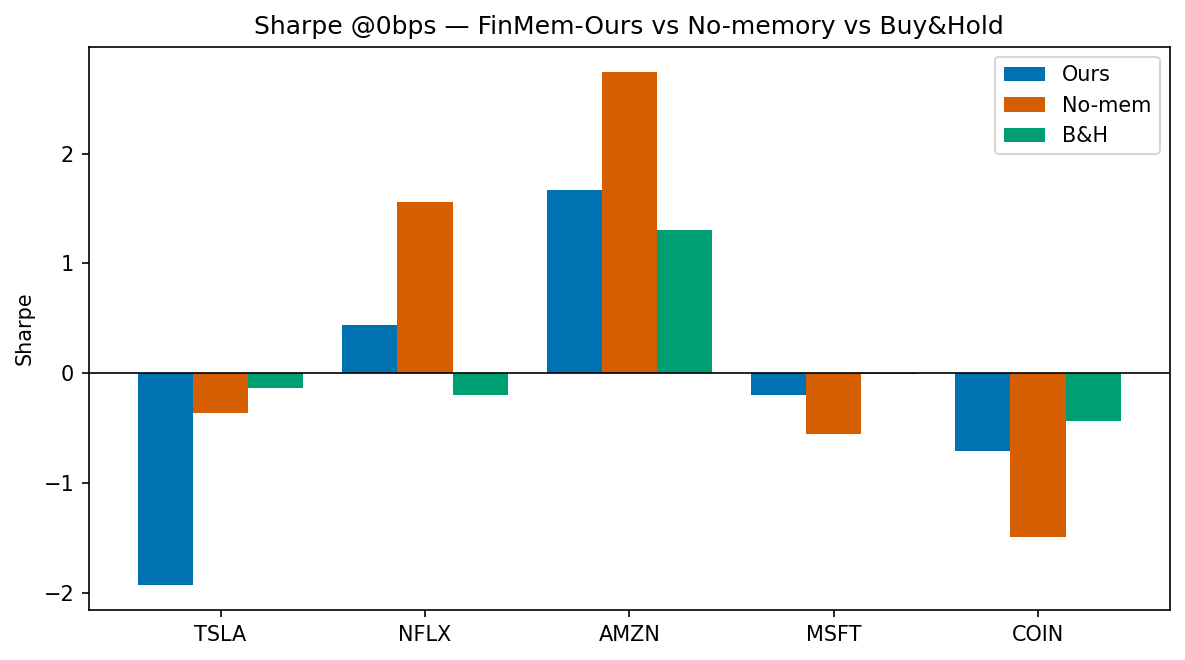
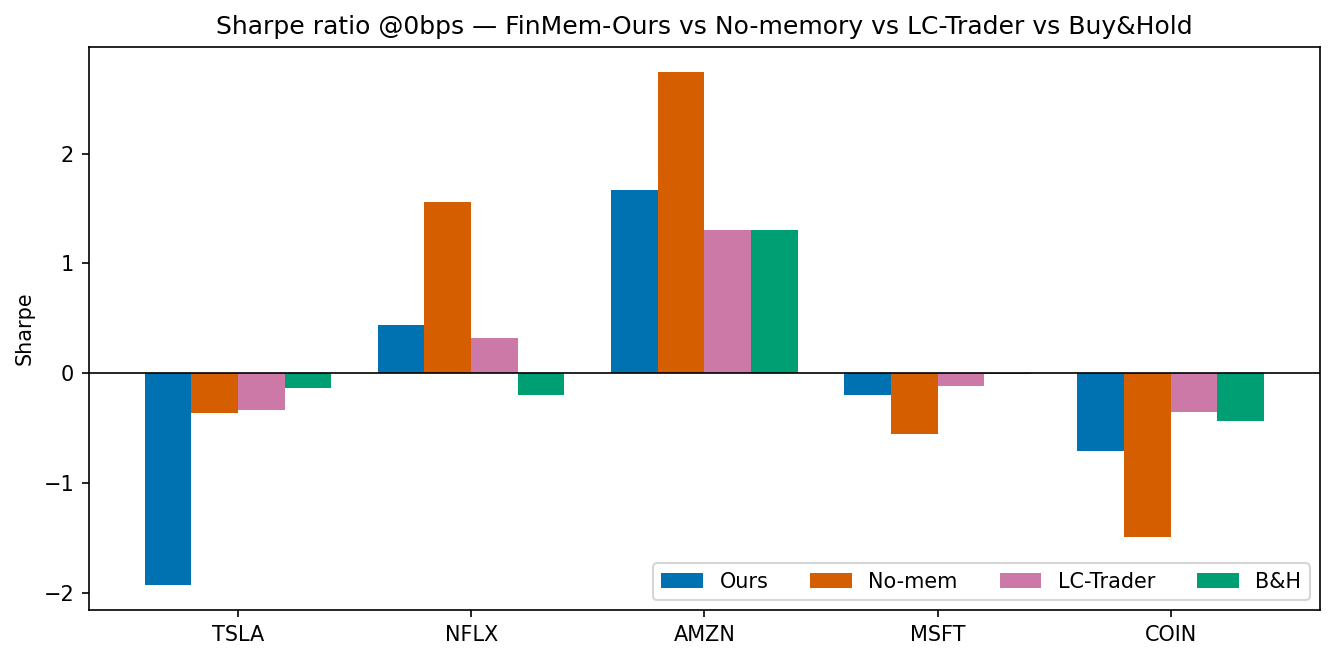
Extra deck figures: Sharpe bars w/ LC-Trader (4 series) + FinMem-Ours vs B&H per-ticker cum-return chart

diff --git a/data-pipeline/21_extra_figs.py b/data-pipeline/21_extra_figs.py
@@ -1,0 +1,72 @@
+"""Stage-12 extra figures (user request):
+1. bars_sharpe.png — Sharpe bars with the 4th LC-Trader series.
+2. finmem_ours_vs_bh_by_ticker.png — FinMem-Ours per-ticker cumulative-return lines
+   (solid) with each ticker's Buy & Hold overlaid (dashed, same colour).
+Canonical series via 16. No API.
+"""
+import os
+import sys
+import importlib.util
+
+import numpy as np
+import pandas as pd
+import matplotlib
+matplotlib.use("Agg")
+import matplotlib.pyplot as plt
+
+sys.path.insert(0, os.getcwd())
+spec = importlib.util.spec_from_file_location("c16", os.path.join("data-pipeline", "16_canonical_metrics.py"))
+C = importlib.util.module_from_spec(spec); spec.loader.exec_module(C)
+
+FIG = "data/09_results/figures"
+TICKERS = ["TSLA", "NFLX", "AMZN", "MSFT", "COIN"]
+TCOL = {"TSLA": "#E15759", "NFLX": "#1B2A6B", "AMZN": "#17BECF", "MSFT": "#2E78D2", "COIN": "#E8A317"}
+SCOL = {"Ours": "#0072B2", "No-mem": "#D55E00", "LC-Trader": "#CC79A7", "B&H": "#009E73"}
+plt.rcParams.update({"figure.dpi": 150, "savefig.dpi": 150, "figure.facecolor": "white",
+                     "axes.facecolor": "white", "font.size": 10})
+
+df = pd.read_csv("data/09_results/metrics_canonical.csv")
+
+# ---------- 1. Sharpe bars, 4 series ----------
+fig, ax = plt.subplots(figsize=(9, 4.5))
+x = np.arange(len(TICKERS)); w = 0.2
+for i, (strat, lab) in enumerate([("FinMem-Ours", "Ours"), ("No-memory", "No-mem"),
+                                  ("LC-Trader", "LC-Trader"), ("BuyHold", "B&H")]):
+    key = {"Ours": "Ours", "No-mem": "No-mem", "LC-Trader": "LC-Trader", "B&H": "B&H"}[lab]
+    vals = [df[(df.ticker == t) & (df.strategy == strat)]["sharpe_0"].values for t in TICKERS]
+    vals = [v[0] if len(v) else np.nan for v in vals]
+    ax.bar(x + (i - 1.5) * w, vals, w, label=lab, color=SCOL[key])
+ax.set_xticks(x); ax.set_xticklabels(TICKERS); ax.axhline(0, color="black", lw=0.8)
+ax.set_title("Sharpe ratio @0bps — FinMem-Ours vs No-memory vs LC-Trader vs Buy&Hold")
+ax.set_ylabel("Sharpe"); ax.legend(ncol=4)
+fig.tight_layout(); fig.savefig(os.path.join(FIG, "bars_sharpe.png"), bbox_inches="tight"); plt.close(fig)
+print("wrote bars_sharpe.png (4 series incl. LC-Trader)")
+
+# ---------- 2. FinMem-Ours per-ticker cum return + B&H ----------
+fig, ax = plt.subplots(figsize=(10, 5.5))
+ours_cr, bh_cr = {}, {}
+for t in TICKERS:
+    r_o = C.series_for(f"{t}_ours", t)[0]
+    eq_o = ((1 + r_o).cumprod() - 1) * 100
+    r_b = C.bh_returns(t)
+    eq_b = ((1 + r_b).cumprod() - 1) * 100
+    ax.plot(eq_o.index, eq_o.values, color=TCOL[t], lw=2.2, solid_capstyle="round")
+    ax.plot(eq_b.index, eq_b.values, color=TCOL[t], lw=1.3, ls=(0, (4, 2)), alpha=0.55)
+    ours_cr[t] = eq_o.iloc[-1]; bh_cr[t] = eq_b.iloc[-1]
+ax.axhline(0, color="grey", lw=0.8, ls=":")
+ax.grid(True, alpha=0.25)
+ax.set_title("FinMem-Ours vs Buy & Hold — cumulative return by ticker (test window, 0 bps)",
+             fontsize=13, fontweight="bold", color="#1B2A6B", pad=12)
+ax.set_ylabel("Cumulative return (%)"); ax.set_xlabel("")
+from matplotlib.lines import Line2D
+handles = [Line2D([0], [0], color=TCOL[t], lw=2.4,
+                  label=f"{t}   Ours {ours_cr[t]:+.1f}%  ·  B&H {bh_cr[t]:+.1f}%") for t in TICKERS]
+handles += [Line2D([0], [0], color="grey", lw=2.2, label="— solid = FinMem-Ours"),
+            Line2D([0], [0], color="grey", lw=1.3, ls=(0, (4, 2)), label="-- dashed = Buy & Hold")]
+ax.legend(handles=handles, loc="lower left", fontsize=9, framealpha=0.9)
+omean = np.mean(list(ours_cr.values())); bmean = np.mean(list(bh_cr.values()))
+ax.text(0.99, 0.03, f"mean: Ours {omean:+.1f}%   B&H {bmean:+.1f}%",
+        transform=ax.transAxes, ha="right", va="bottom", color="grey", fontsize=10)
+fig.autofmt_xdate(); fig.tight_layout()
+fig.savefig(os.path.join(FIG, "finmem_ours_vs_bh_by_ticker.png"), bbox_inches="tight"); plt.close(fig)
+print("wrote finmem_ours_vs_bh_by_ticker.png (Ours solid + B&H dashed per ticker)")

diff --git a/STATUS.md b/STATUS.md
@@ -7,6 +7,12 @@
 **Currently doing:** Stage 11 COMPLETE — metrics AUDITED & corrected, deck figures +
 excerpts rendered. Remaining: optional Streamlit dashboard + STOP #2 (gpt-4.1 fidelity).
 
+## Overnight run — morning summary (2026-06-14 09:30)
+- 15/15 steps complete — FULL GRID DONE
+- RESULTS_FINMEM_OURS.md: present + real
+- error pack: present
+- Chat spend: paid ~ $1.66 of $3.00 cap (3440 lifetime calls)
+- Log tail: see overnight.log
 ## 🔎 METRICS AUDIT (Stage 11) — we caught our own bug
 Independent recompute disagreed with our committed numbers. **Two bugs found & fixed:**
 1. **Terminal-day truncation** — priced on the portfolio series, which dropped the final